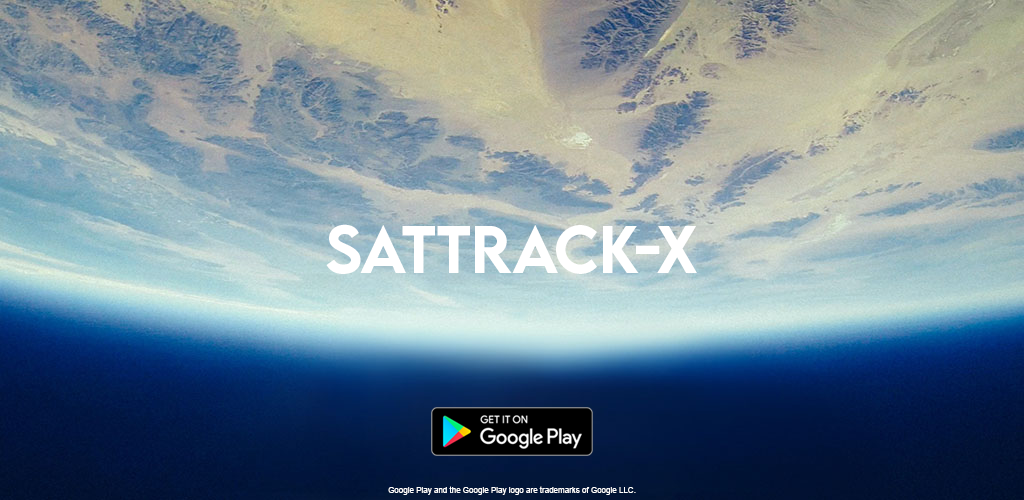
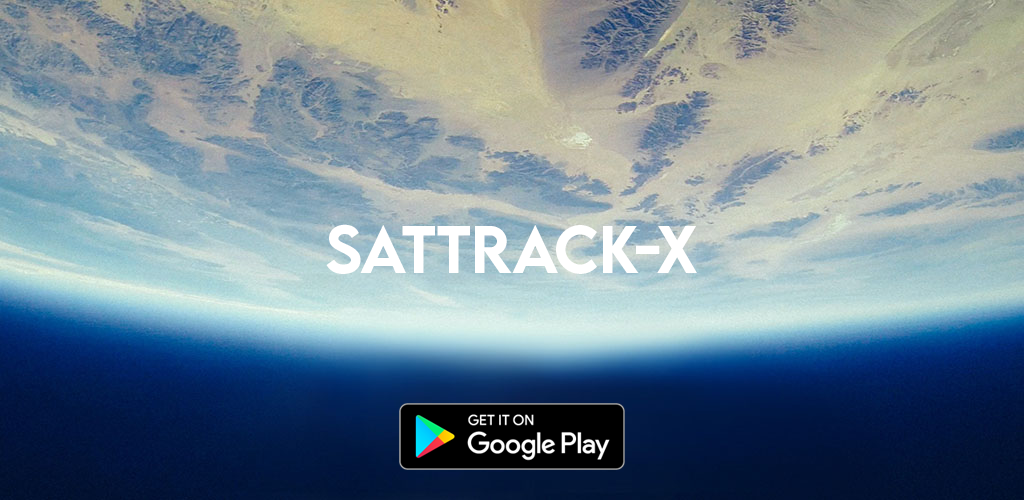
Change design

Changed region(s): [[0.375, 0.78, 0.625, 0.99]]

diff --git a/index.html b/index.html
@@ -7,6 +7,9 @@
         <!-- Bootstrap CSS -->
         <link href="https://cdn.jsdelivr.net/npm/bootstrap@5.0.0-beta1/dist/css/bootstrap.min.css" rel="stylesheet" integrity="sha384-giJF6kkoqNQ00vy+HMDP7azOuL0xtbfIcaT9wjKHr8RbDVddVHyTfAAsrekwKmP1" crossorigin="anonymous">
 
+        <!-- Animate.css -->
+        <link rel="stylesheet" href="https://cdnjs.cloudflare.com/ajax/libs/animate.css/4.1.1/animate.min.css"/>
+        
         <link href="css/style.css" rel="stylesheet">
         
         <title>JPVitan</title>         
@@ -66,10 +69,24 @@
             </div>
         </nav>
 
-        <div class="text-center mx-4 my-4 fade-in">
-            <a href="#">
-                <img src="img/sattrack-x.png" class="img-fluid mx-auto style-image-banner">             
-            </a>            
+        <div class="text-center mx-4 my-4">
+            <a href="https://play.google.com/store/apps/details?id=com.jpv.sattrack&hl=en&gl=PH">
+                <img src="img/sattrack-x.png" class="img-fluid shadow mx-auto style-image-banner">             
+            </a>   
+            <div class="mt-1 style-image-banner-text">
+                <p>*Google Play and the Google Play logo are trademarks of Google LLC.</p>
+            </div>
+        </div>
+        
+        <div class="container-fluid py-4 style-text-greeting-container">
+            <div class="text-center my-5 animate__animated animate__zoomIn">
+                <h1>Hello, World!</h1>
+                <h1>I'm Justine Paul Vitan. I develop and design software.</h1>
+                <div class="mt-4">
+                    <a href="#" class="btn btn-outline-light btn-lg style-text-greeting-container-btn">Inquire Now</a>
+                    <a href="#" class="btn btn-outline-light btn-lg ms-2 style-text-greeting-container-btn">View Portfolio</a>
+                </div>
+            </div>
         </div>
         
         <!-- Bootstrap Bundle with Popper -->

diff --git a/css/style.css b/css/style.css
@@ -15,20 +15,21 @@
     color: #2f3542 !important;
 }
 .style-image-banner{
-    width: 1024px; 
+    width: 900px; 
     border-radius: 15px;
 }
-@keyframes fade-in-animation{
-    from{
-        opacity: 0%;
-    }
-    to{
-        opacity: 100%;
-    }
+.style-image-banner-text{
+    font-size: 9pt;
+    color: #808e9b;
 }
-.fade-in{
-    animation-name: fade-in-animation;
-    animation-duration: 4s;
+.style-text-greeting-container{
+    background-color: #0fbcf9; 
+    color: #ffffff;
+}
+.style-text-greeting-container-btn{
+    width: 200px;
+    border-width: 2px;
+    font-weight: 500;
 }
 html{
     background-color: #ffffff;
